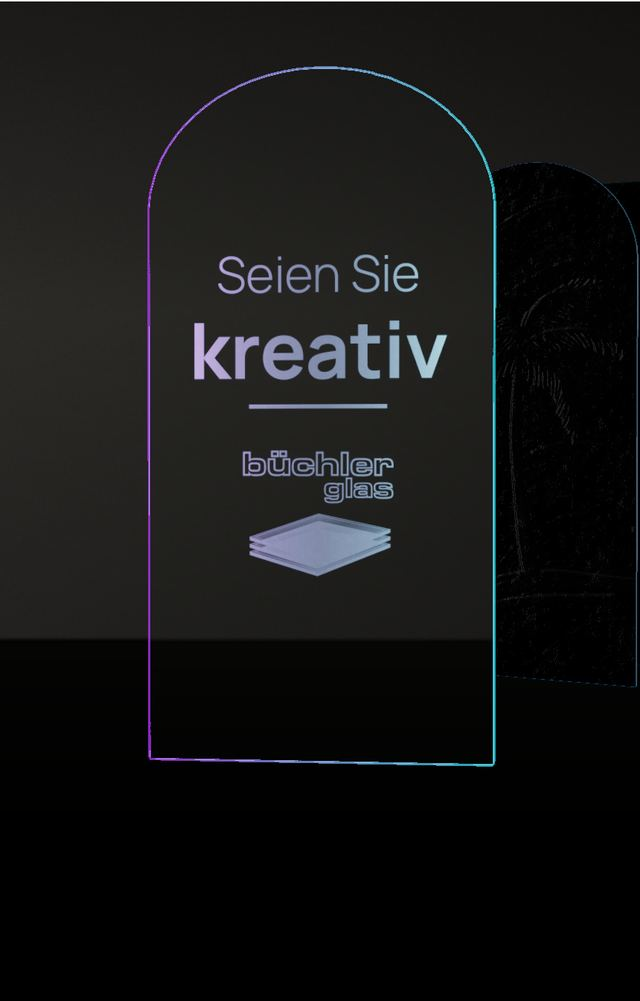
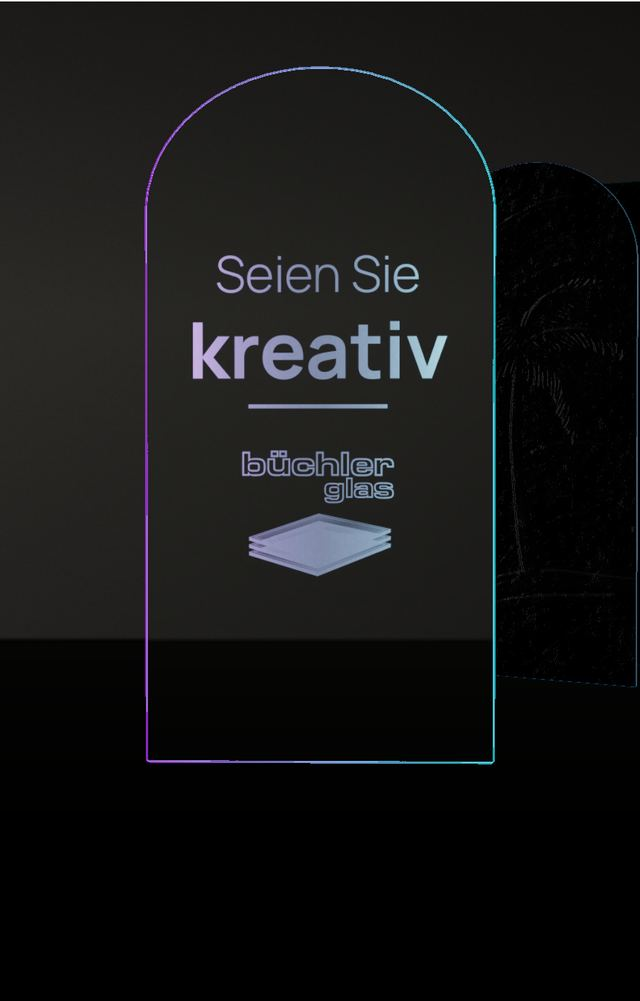
Lavabo chapter cover
Claude-Session: https://claude.ai/code/session_012Hx2xduGYkVJkFqnwRb3yq

diff --git a/index.html b/index.html
@@ -434,13 +434,13 @@ a { color: inherit; }
   <!-- 02 Lavabo -->
   <section id="lavabo" class="stack room-basin" data-chapter="lavabo" aria-labelledby="lavabo-title">
     <div class="gate chapter-gate" data-part="Glaslavabo">
-      <img src="img/wt-tor.jpg" alt="Bad mit Glaslavabo, türkisem Licht und Holzbalken" style="object-position: 50% 50%" loading="lazy">
+      <img src="img/lavabo-tor.jpg" alt="Glaslavabo mit Struktur und türkisem LED-Licht in der Kante auf einem Holzmöbel" style="object-position: 50% 38%" loading="lazy">
       <div class="gate-text">
         <span class="chapter-number">02</span>
         <h2 id="lavabo-title">Lavabo</h2>
         <span class="sub">Vom Becken zum Unikat.</span>
       </div>
-      <span class="tag top">Originalfoto</span>
+      <span class="tag top">Visualisierung</span>
     </div>
 
     <div class="wrap room">
